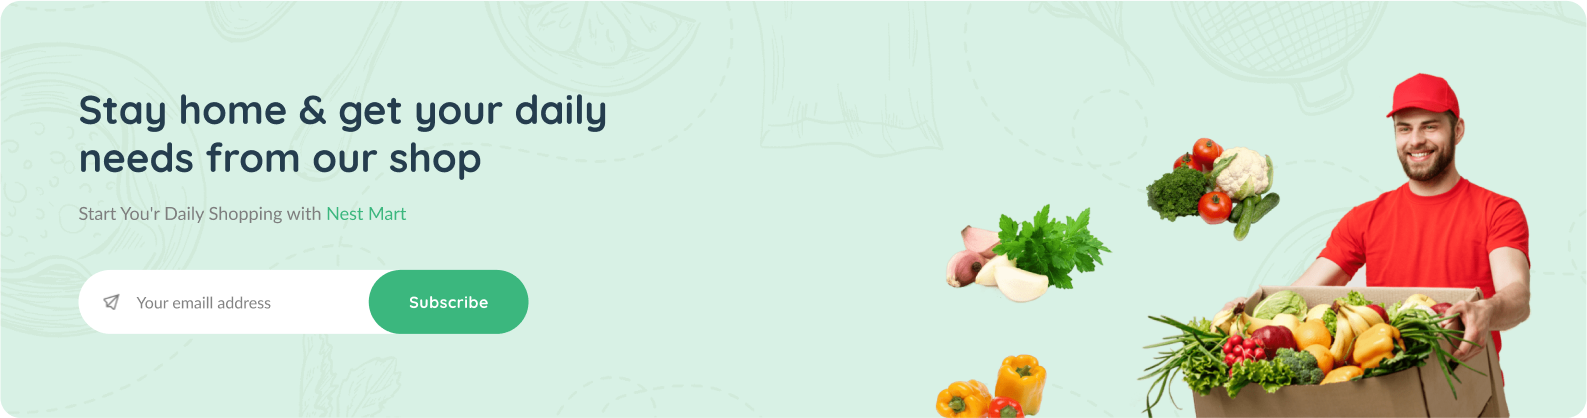
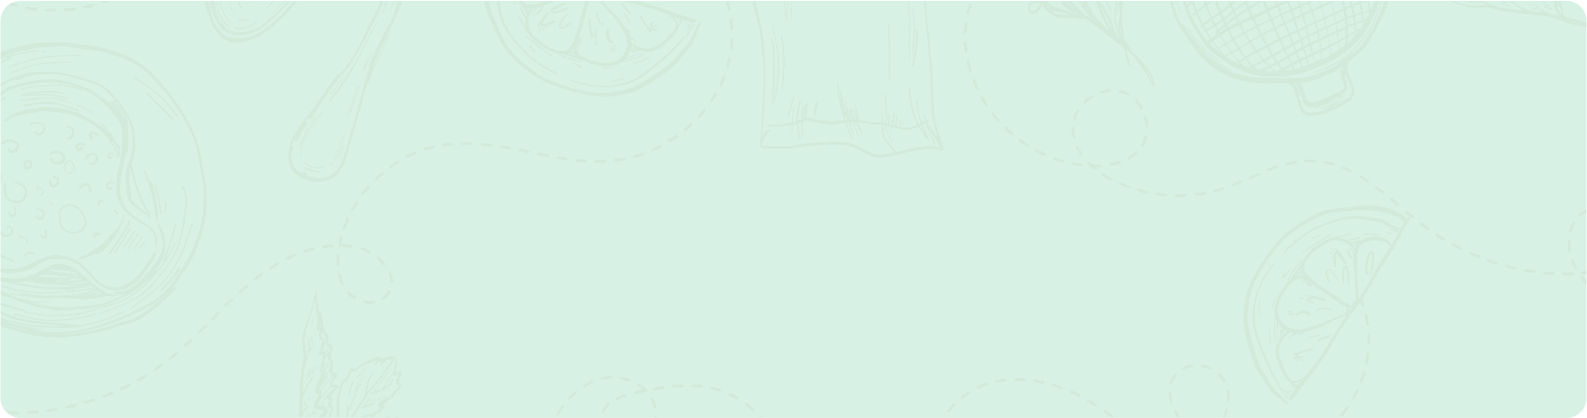
..

diff --git a/components/bodyComponents/dailybestsells/bestsellscard.tsx b/components/bodyComponents/dailybestsells/bestsellscard.tsx
@@ -1,0 +1,78 @@
+import Image from "next/image";
+import React from "react";
+import { Button } from "@/components/ui/button";
+import { ShoppingCart } from "lucide-react";
+import { productdata } from "@/api/products";
+import { AiFillStar } from "react-icons/ai";
+import {
+  Carousel,
+  CarouselContent,
+  CarouselItem,
+  CarouselNext,
+  CarouselPrevious,
+} from "@/components/ui/carousel";
+
+const Bestsellscard = () => {
+  return (
+    <Carousel>
+      <CarouselContent>
+        {productdata.map((item, index) => (
+          <CarouselItem className=" basis-56">
+            <div className="text-sm border-2 rounded-2xl p-2 relative overflow-hidden">
+              <span
+                className={` absolute top-0 left-0 rounded-br-xl rounded-tl-xl ${
+                  item.label === "Hot"
+                    ? "bg-red-600"
+                    : item.label === "Sale"
+                    ? "bg-sky-500"
+                    : item.label === "New"
+                    ? "bg-green-600"
+                    : "bg-orange-400"
+                } w-16 text-center py-1 text-white z-50`}
+              >
+                {item.label}
+              </span>
+
+              <div className=" h-44 w-full relative ">
+                <Image
+                  src={item.image}
+                  alt="image file of 14"
+                  objectFit="contain"
+                  layout="fill"
+                />
+              </div>
+
+              <div className=" space-y-1">
+                <p className=" text-slate-500 md:text-xs text-sm ">
+                  {item.category}
+                </p>
+                <h1 className=" text-base font-bold">{item.name}</h1>
+                <div className=" flex gap-3 justify-start items-center">
+                  <AiFillStar fill="orange" />
+                  <span>({item.rating})</span>
+                </div>
+
+                <div className=" flex items-center justify-start gap-2 text-sm ">
+                  <p className=" font-bold text-base text-commonColor">
+                    ${item.discountedPrice}
+                  </p>
+                  <p className=" line-through ">${item.price}</p>
+                </div>
+
+                <p>Sold: 90/120</p>
+                <Button className=" bg-commonColor hover:bg-commonColor/80 text-sm w-full ">
+                  <ShoppingCart />
+                  <span>Add</span>
+                </Button>
+              </div>
+            </div>
+          </CarouselItem>
+        ))}
+      </CarouselContent>
+      <CarouselPrevious className=" ml-12 bg-commonColor/10 top-1/3" />
+      <CarouselNext className=" mr-12 bg-commonColor/10 top-1/3" />
+    </Carousel>
+  );
+};
+
+export default Bestsellscard;

diff --git a/components/bodyComponents/dailybestsells/dailybestsells.tsx b/components/bodyComponents/dailybestsells/dailybestsells.tsx
@@ -1,0 +1,44 @@
+import React from "react";
+import Bestsellscard from "./bestsellscard";
+import bestsellbanner from "@/public/div.banner-img.png";
+import Image from "next/image";
+import { Button } from "@/components/ui/button";
+
+const Dailybestsells = () => {
+  return (
+    <div className=" container mx-auto py-5 ">
+      <div className=" flex gap-5 items-center justify-between w-full py-3 ">
+        <h1 className=" text-2xl font-bold ">Daily Best Sells</h1>
+        <ul className=" flex gap-5 justify-center items-center text-sm ">
+          <li>
+            <a href="#">Featured</a>
+          </li>
+          <li>
+            <a href="#">Popular</a>
+          </li>
+          <li>
+            <a href="#">New Added</a>
+          </li>
+        </ul>
+      </div>
+      <div className=" grid grid-cols-8 gap-5">
+        <div className=" col-span-2 relative ">
+          <Image
+            src={bestsellbanner}
+            alt="best sell banners"
+            objectFit="contain"
+          />
+          <div className=" absolute top-0 flex flex-col justify-center items-start h-full px-10 gap-5 ">
+            <p className=" font-bold text-3xl">Bring nature into your home.</p>
+            <Button size={"sm"} className=" bg-commonColor ">See More</Button>
+          </div>
+        </div>
+        <div className=" col-span-6 ">
+          <Bestsellscard />
+        </div>
+      </div>
+    </div>
+  );
+};
+
+export default Dailybestsells;

diff --git a/app/(home)/page.tsx b/app/(home)/page.tsx
@@ -1,19 +1,22 @@
 import React from 'react'
 
 import Navbar from '@/components/navbar/navbar'
-import Categories from '@/components/categories/categories'
 import Man from '@/components/bodyComponents/man/man'
 import Footer from '@/components/footer/footer'
 import Popularcategory from '@/components/bodyComponents/popularcategory/popularcategory'
 import Popularproduct from '@/components/bodyComponents/popularproducts/popularproduct'
+import Bestsellscard from '@/components/bodyComponents/dailybestsells/bestsellscard'
+import Dailybestsells from '@/components/bodyComponents/dailybestsells/dailybestsells'
+import Newsletter from '@/components/footer/newsletter'
 
 const page = () => {
   return (
     <main>
       <Navbar />
-      {/* <Categories /> */}
       <Popularcategory />
       <Popularproduct />
+      <Dailybestsells />
+      <Newsletter />
       <Man />
       <Footer />
     </main>

diff --git a/components/ui/carousel.tsx b/components/ui/carousel.tsx
@@ -161,7 +161,7 @@ const CarouselContent = React.forwardRef<
         ref={ref}
         className={cn(
           "flex",
-          orientation === "horizontal" ? "-ml-4" : "-mt-4 flex-col",
+          orientation === "horizontal" ? "-ml-2" : "-mt-4 flex-col",
           className
         )}
         {...props}
@@ -184,7 +184,7 @@ const CarouselItem = React.forwardRef<
       aria-roledescription="slide"
       className={cn(
         "min-w-0 shrink-0 grow-0 basis-full",
-        orientation === "horizontal" ? "pl-4" : "pt-4",
+        orientation === "horizontal" ? "pl-2" : "pt-4",
         className
       )}
       {...props}

diff --git a/components/footer/newsletter.tsx b/components/footer/newsletter.tsx
@@ -1,0 +1,18 @@
+import React from 'react'
+import newsletterBg from '@/public/Foot1er.png'
+import newsletterBgright from '@/public/banner-9.png.png'
+import Image from 'next/image'
+
+const Newsletter = () => {
+  return (
+    <div className=' container mx-auto relative h-72 overflow-hidden '>
+      <Image src={newsletterBg} alt="newsletter bg"/>
+      <div>
+        <p>Stay home & get your daily needs from our shop</p>
+        <p>Start You'r Daily Shopping with Mega Mart</p>
+      </div>
+    </div>
+  )
+}
+
+export default Newsletter
